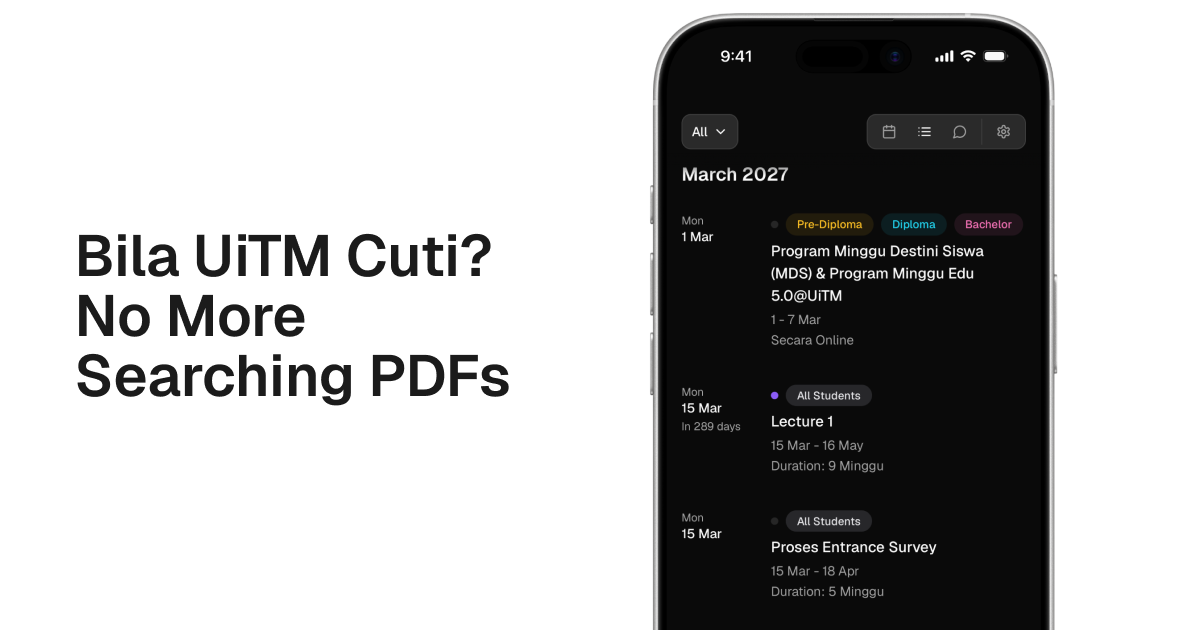
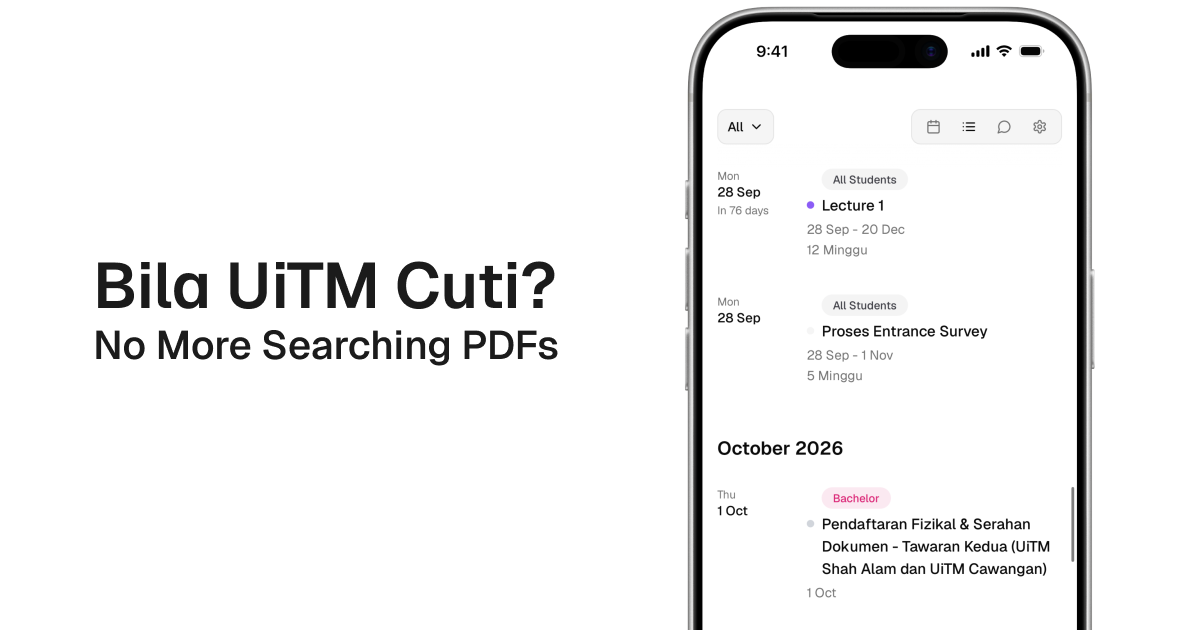
Add Geist font and update styles for improved typography and layout
- Added the Geist font package to enhance typography across the application.
- Updated global CSS styles for the `.typeset-chat` class to standardize font sizes and leading, improving readability.
- Refactored layout components to utilize the new Geist font, ensuring consistent styling in headings and body text.
- Made minor adjustments to various components to incorporate the BrandName component for better branding consistency.

These changes collectively enhance the visual appeal and user experience of the application, providing a more cohesive design.

diff --git a/app/download/page.tsx b/app/download/page.tsx
@@ -7,6 +7,7 @@ import { ChevronLeft } from 'lucide-react';
 import { toast } from 'sonner';
 
 import { PwaInstallOverlay } from '@/components/download/pwa-install-overlay';
+import { BrandName } from '@/components/brand-name';
 import { Button } from '@/components/ui/button';
 import {
   Card,
@@ -151,7 +152,7 @@ function PwaTabContent({
         <CardHeader className="space-y-1 px-3 pb-4 sm:px-6">
           <div>
             <CardTitle render={<h2 />} className="text-2xl font-semibold">
-              Install Bila UiTM Cuti
+              Install <BrandName />
             </CardTitle>
             <CardDescription className="mt-1 text-sm text-foreground">{caption}</CardDescription>
           </div>
@@ -173,7 +174,7 @@ function PwaTabContent({
           <CardHeader className="space-y-1 px-3 pb-4 sm:px-6">
             <CardTitle className="text-xl font-semibold">Already installed</CardTitle>
             <CardDescription className="mt-1 text-sm text-foreground">
-              Bila UiTM Cuti is already installed on this device.
+              <BrandName /> is already installed on this device.
             </CardDescription>
           </CardHeader>
         </Card>
@@ -231,7 +232,7 @@ function BookmarkTabContent({ platform }: { platform: PwaInstallPlatform | null 
         <CardHeader className="space-y-1 px-3 pb-4 sm:px-6">
           <div>
             <CardTitle render={<h2 />} className="text-2xl font-semibold">
-              Bookmark Bila UiTM Cuti
+              Bookmark <BrandName />
             </CardTitle>
             <CardDescription className="mt-1 text-sm text-foreground">
               Save this site in your browser bookmarks or favorites so you can return to the calendar and
@@ -345,7 +346,7 @@ function DownloadPageContent() {
         className="flex-1 overflow-y-auto px-4 pt-24 pb-6 md:px-0"
       >
         <div className="mx-auto w-full max-w-[600px]">
-          <h1 className="sr-only">Download Bila UiTM Cuti</h1>
+          <h1 className="sr-only">Download <BrandName /></h1>
 
           <Tabs defaultValue={initialTab} className="flex flex-col gap-4">
             <TabsList className="grid h-10 w-full grid-cols-2">
@@ -368,7 +369,7 @@ function DownloadPageContent() {
 
           <Card className="mt-4 gap-0 rounded-[10px] shadow-none">
             <CardHeader className="space-y-1 px-3 pb-4 sm:px-6">
-              <CardTitle className="text-xl font-semibold">About Bila UiTM Cuti</CardTitle>
+              <CardTitle className="text-xl font-semibold">About <BrandName /></CardTitle>
               <CardDescription className="mt-1 text-sm text-foreground">
                 Learn what this project covers, how the calendar works, and where to send feedback.
               </CardDescription>

diff --git a/app/globals.css b/app/globals.css
@@ -5,22 +5,29 @@
 
 @source "../node_modules/streamdown/dist/*.js";
 
-/* Chat assistant markdown: text-sm mobile, 15px from md+. Override Typeset's
+/* Chat assistant markdown: 0.875em mobile, 0.9375em from md+. Override Typeset's
    mobile 1.125 size bump so body matches BubbleContent. */
 .typeset-chat {
   --typeset-font-body: var(--font-geist-sans);
   --typeset-font-heading: var(--font-geist-sans);
   --typeset-font-mono: var(--font-geist-mono);
-  --typeset-size: 0.875rem;
+  --typeset-size: 0.875em;
   --typeset-leading: 1.6;
-  --typeset-flow: 1.25em;
+  --typeset-flow: 1em;
   font-size: var(--typeset-size);
 }
 
 @media (min-width: 768px) {
   .typeset-chat {
-    --typeset-size: 15px;
+    --typeset-size: 0.9375em;
   }
+}
+
+.typeset-chat :where(ul > li, ol > li) {
+  margin-block-start: 0.2em;
+}
+.typeset-chat :where(li > p, li > ul, li > ol) {
+  margin-block-start: 0.2em;
 }
 
 @custom-variant dark (&:is(.dark *));
@@ -46,6 +53,13 @@ html {
 /* Base UI drawer: absolute overlay on iOS needs a positioned body after scroll */
 body {
   position: relative;
+  /* Geist ss01: no-tail a site-wide (headings + body inherit) */
+  font-feature-settings: "ss01" 1;
+}
+
+/* Geist ss02: alt a — brand wordmarks only */
+.font-brand {
+  font-feature-settings: "ss02" 1;
 }
 
 /* Prevent flash of wrong theme during page load */
@@ -504,7 +518,7 @@ a:hover,
     display: none;
   }
 
-  /* Note: chat-input uses 14px (text-sm) across all devices */
+  /* Note: chat-input uses text-sm mobile, 0.9375em from md+ */
   /* iOS Safari may auto-zoom on focus since font-size < 16px */
 
   /* Mobile: session submenus (Group A/B) — cap width + nudge left when wider than available space */

diff --git a/app/layout.tsx b/app/layout.tsx
@@ -7,19 +7,10 @@ import { EngagementPromptRoot } from '@/components/engagement-prompt'
 import { TooltipProviderRoot } from '@/components/tooltip-provider-root'
 import { ZarazPageView } from '@/components/zaraz-page-view'
 import './globals.css'
-import { Geist, Geist_Mono } from "next/font/google"
+import { GeistSans } from "geist/font/sans"
+import { GeistMono } from "geist/font/mono"
 import { cn } from "@/lib/utils"
 import { buildSiteNavigationSchemaElements, HOMEPAGE_SEO_DESCRIPTION } from '@/lib/page-seo'
-
-const geistSans = Geist({
-  subsets: ["latin"],
-  variable: "--font-geist-sans",
-})
-
-const geistMono = Geist_Mono({
-  subsets: ["latin"],
-  variable: "--font-geist-mono",
-})
 
 export const metadata: Metadata = {
   metadataBase: new URL('https://bilauitmcuti.com'),
@@ -122,7 +113,7 @@ export default function RootLayout({
   children: React.ReactNode
 }>) {
   return (
-    <html lang="en" className={cn(geistSans.variable, geistMono.variable, "font-sans")} suppressHydrationWarning>
+    <html lang="en" className={cn(GeistSans.variable, GeistMono.variable, "font-sans")} suppressHydrationWarning>
       <head>
         <meta name="color-scheme" content="light dark" />
         <meta name="theme-color" content="#ffffff" media="(prefers-color-scheme: light)" />
@@ -291,7 +282,7 @@ export default function RootLayout({
           }}
         />
       </head>
-      <body className={`${geistSans.className} antialiased`} suppressHydrationWarning>
+      <body className={`${GeistSans.className} antialiased`} suppressHydrationWarning>
         <VersionBanner />
         <ThemeProvider
           attribute="class"

diff --git a/app/about/page.tsx b/app/about/page.tsx
@@ -6,6 +6,7 @@ import { useRouter } from 'next/navigation';
 import { ChevronLeft } from 'lucide-react';
 
 import { Badge } from '@/components/ui/badge';
+import { BrandName } from '@/components/brand-name';
 import {
   Card,
   CardContent,
@@ -82,7 +83,7 @@ export default function AboutPage() {
             <CardHeader className="space-y-1 px-3 pb-4 sm:px-6">
               <div>
                 <CardTitle render={<h1 />} className="text-2xl font-semibold">
-                  About Bila UiTM Cuti
+                  About <BrandName />
                 </CardTitle>
                 <CardDescription className="mt-1 text-sm text-foreground">
                   A student-focused web app for checking UiTM academic calendar timelines — registration, lectures,
@@ -150,7 +151,7 @@ export default function AboutPage() {
                 <Badge variant="outline">Educational use</Badge>
               </div>
               <AboutBody>
-                By using Bila UiTM Cuti, you agree that all information is provided on a best-effort basis for
+                By using <BrandName />, you agree that all information is provided on a best-effort basis for
                 educational and informational use only. We do not guarantee completeness, accuracy, or uninterrupted
                 availability at all times.
               </AboutBody>

diff --git a/components/chat/chat-composer.tsx b/components/chat/chat-composer.tsx
@@ -173,7 +173,7 @@ export function ChatComposer({
             <div className="relative w-full">
               <div
                 aria-hidden
-                className="pointer-events-none absolute inset-x-0 top-0 z-0 whitespace-pre-wrap break-words px-3 pt-3 pb-1 text-sm leading-relaxed"
+                className="pointer-events-none absolute inset-x-0 top-0 z-0 whitespace-pre-wrap break-words px-3 pt-3 pb-1 text-sm leading-relaxed md:text-[0.9375em]"
               >
                 {mentionHighlightParts.map((part, index) =>
                   part.isMention ? (
@@ -205,7 +205,7 @@ export function ChatComposer({
                 placeholder={placeholder}
                 disabled={isLoading}
                 rows={1}
-                className="chat-input relative z-10 min-h-[44px] max-h-[130px] resize-none border-0 bg-transparent px-3 pt-3 pb-1 text-sm leading-relaxed shadow-none focus-visible:ring-0"
+                className="chat-input relative z-10 min-h-[44px] max-h-[130px] resize-none border-0 bg-transparent px-3 pt-3 pb-1 text-sm leading-relaxed shadow-none focus-visible:ring-0 md:text-[0.9375em]"
               />
             </div>
             <ResponsiveOverlayShell

diff --git a/components/engagement-prompt-sheet.tsx b/components/engagement-prompt-sheet.tsx
@@ -5,6 +5,7 @@ import { useRouter } from "next/navigation";
 import { toast } from "sonner";
 import { Button } from "@/components/ui/button";
 import { ResponsiveOverlayShell } from "@/components/ui/responsive-overlay-shell";
+import { BrandName } from "@/components/brand-name";
 import {
   drawerOutlineButtonClassName,
   drawerPrimaryButtonClassName,
@@ -375,7 +376,11 @@ export function EngagementPromptSheet({
       open={open}
       onOpenChange={onOpenChange}
       isMobile={isMobileSheet}
-      title="Enjoying Bila UiTM Cuti?"
+      title={
+        <>
+          Enjoying <BrandName questionMark />
+        </>
+      }
     >
       <EngagementPromptBody
         rating={rating}

diff --git a/components/calendar-header.tsx b/components/calendar-header.tsx
@@ -16,6 +16,7 @@ import {
   calendarTitleH1Class,
   calendarTitleH1Style,
 } from "@/lib/calendar-title-styles";
+import { BrandName } from "@/components/brand-name";
 
 interface CalendarHeaderProps {
   selectedSessions?: SessionId[];
@@ -147,7 +148,7 @@ export function CalendarHeader({
           suppressHydrationWarning
           style={calendarTitleH1Style}
         >
-          Bila UiTM Cuti?
+          <BrandName questionMark />
         </h1>
       </div>
 

diff --git a/components/brand-name.tsx b/components/brand-name.tsx
@@ -1,0 +1,14 @@
+import { cn } from "@/lib/utils"
+
+interface BrandNameProps {
+  questionMark?: boolean
+  className?: string
+}
+
+export function BrandName({ questionMark = false, className }: BrandNameProps) {
+  return (
+    <span className={cn("font-brand", className)}>
+      Bila UiTM Cuti{questionMark ? "?" : ""}
+    </span>
+  )
+}
